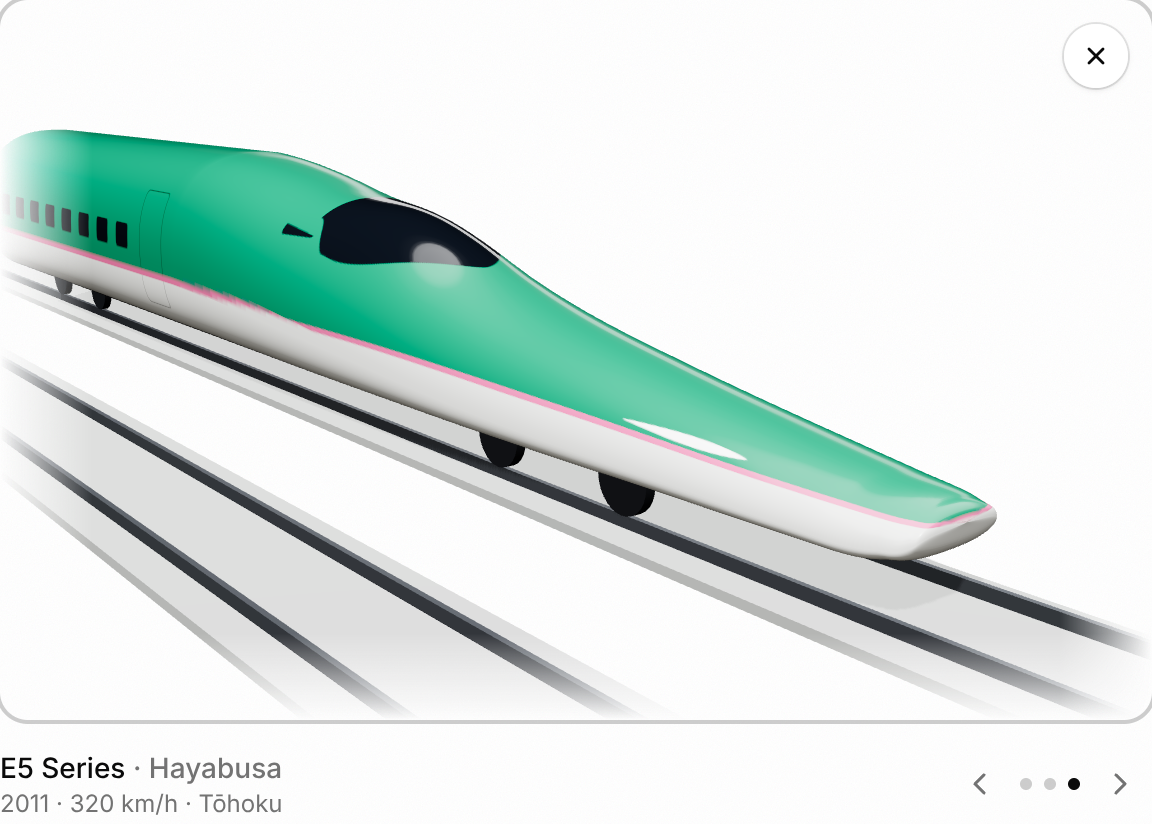
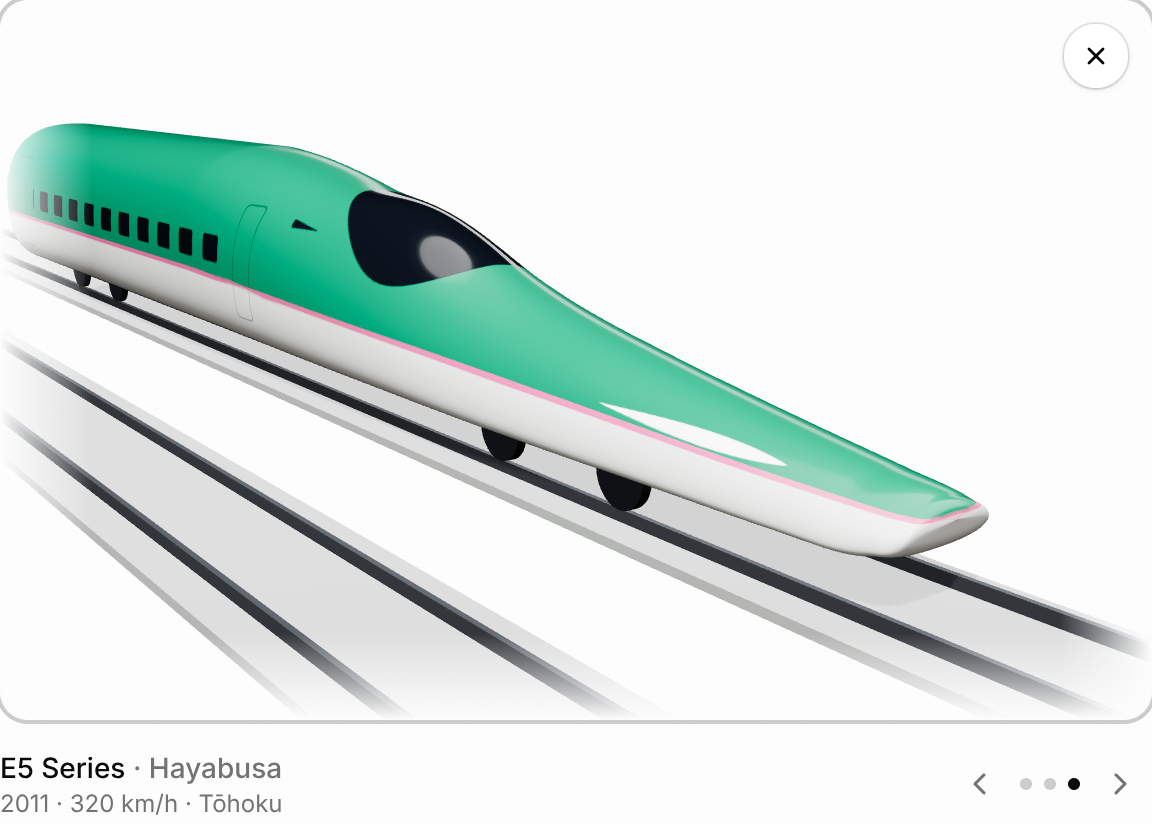
Refine Shinkansen models for accuracy
- 0 Series: smaller, higher nose-light dome so the lower blue stripe runs
  unbroken around the front under the headlight pods; wider windscreen
  pillar; drop the stray roof patch; lighter underfloor.
- N700S: teardrop LED headlights moved up onto the raised edges beside
  the windscreen; deeper valley between the two nose wings; rounded
  visor windscreen; pinstripe fades in instead of stopping short.
- E5: teardrop windscreen on the canopy, pink line sits just under the
  windows, slimmer canopy over a wider lower hull, larger headlights.
- N700S and E5: passenger door at the coupling end plus a crew door
  behind the cab.
- Space texture pixels evenly around each cross-section, so stripes on
  the flat body sides are crisp instead of fuzzy.

Claude-Session: https://claude.ai/code/session_019jCHeutRcVREskqAvSWJ6R

diff --git a/components/shinkansen/series.ts b/components/shinkansen/series.ts
@@ -90,12 +90,12 @@ const shade = (c: RGB, k: number): RGB => [c[0] * k, c[1] * k, c[2] * k]
 /* ───────────────────────────── 0 Series (1964) ───────────────────────────── */
 
 const zeroTop = spline([
-  [0, 1.42],
-  [0.04, 1.62],
-  [0.14, 1.8],
-  [0.32, 1.97],
-  [0.65, 2.16],
-  [1.1, 2.33],
+  [0, 1.5],
+  [0.04, 1.7],
+  [0.14, 1.87],
+  [0.32, 2.02],
+  [0.65, 2.19],
+  [1.1, 2.35],
   [1.7, 2.5],
   [2.25, 2.68],
   [2.8, 2.98],
@@ -118,11 +118,12 @@ const zeroHalf = spline([
   [5.5, 1.69],
 ])
 const zeroBottom = spline([
-  [0, 1.42],
-  [0.08, 1.12],
-  [0.22, 0.86],
-  [0.45, 0.62],
-  [0.8, 0.46],
+  [0, 1.5],
+  [0.06, 1.2],
+  [0.18, 0.95],
+  [0.36, 0.72],
+  [0.62, 0.52],
+  [1.0, 0.43],
   [1.6, 0.42],
   [3.6, 0.46],
   [4.3, 0.92],
@@ -172,18 +173,18 @@ const zeroSeries: Series = {
     if (sy < -0.82 && x > 1) return { color: UNDER }
     const ax = Math.abs(z)
     // Translucent nose-light cover on the tip of the bonnet.
-    if (x < 0.5 && (y - 1.42) ** 2 + z ** 2 < 0.44 ** 2) {
-      const r = Math.sqrt((y - 1.42) ** 2 + z ** 2)
-      if (r > 0.41) return { color: shade(ZERO_IVORY, 0.72) }
-      return { color: hex("#f4f1e6"), light: r < 0.3 ? hex("#3a3628") : undefined }
+    if (x < 0.45 && (y - 1.5) ** 2 + z ** 2 < 0.37 ** 2) {
+      const r = Math.sqrt((y - 1.5) ** 2 + z ** 2)
+      if (r > 0.345) return { color: shade(ZERO_IVORY, 0.72) }
+      return { color: hex("#f4f1e6"), light: r < 0.25 ? hex("#3a3628") : undefined }
     }
     // Headlight pods: blue ovals on the cheeks with twin round lamps.
     if (x < 2.2 && sy > -0.6) {
-      const pz = (ax - 0.86) / 0.5
-      const py = (y - 1.36) / 0.2
+      const pz = (ax - 0.9) / 0.46
+      const py = (y - 1.42) / 0.18
       if (pz * pz + py * py < 1) {
-        const lamp = (lz: number) => (ax - lz) ** 2 + (y - 1.36) ** 2 < 0.115 ** 2
-        if (lamp(0.66) || lamp(1.06)) return { color: hex("#fffbe8"), light: hex("#fff3c4") }
+        const lamp = (lz: number) => (ax - lz) ** 2 + (y - 1.42) ** 2 < 0.105 ** 2
+        if (lamp(0.72) || lamp(1.08)) return { color: hex("#fffbe8"), light: hex("#fff3c4") }
         return { color: ZERO_BLUE }
       }
     }
@@ -191,7 +192,7 @@ const zeroSeries: Series = {
     if (x > 2.18 && x < 3.3 && sy > 0.2) {
       const zn = ax / Math.max(0.01, zeroHalf(x))
       const yTop = 3.18
-      if (zn < 0.66 && ax > 0.045 && y < yTop && y > 2.66) return { color: GLASS, glass: true }
+      if (zn < 0.66 && ax > 0.075 && y < yTop && y > 2.66) return { color: GLASS, glass: true }
     }
     // Side cab window.
     if (Math.abs(sx) > 0.7 && inRoundRect(x, y, 3.45, 4.45, 2.58, 3.02, 0.08))
@@ -207,12 +208,11 @@ const zeroSeries: Series = {
       return { color: ZERO_BLUE }
     }
     // Skirt stripe wrapping under the headlight pods.
-    if (y > 1.0 && y < 1.13 && sy > -0.75) return { color: ZERO_BLUE }
+    if (y > 0.99 && y < 1.11 && (sy > -0.75 || x < 1.2)) return { color: ZERO_BLUE }
     if (Math.abs(sx) > 0.7) {
       if (doorSeam(x, y, 6.2, 6.9, 1.2, 2.95) || doorSeam(x, y, 23.75, 24.45, 1.2, 2.95))
         return { color: shade(ZERO_IVORY, 0.62) }
     }
-    if (sy > 0.9 && x > 5) return { color: shade(ZERO_IVORY, 0.9) }
     return { color: ZERO_IVORY }
   },
 }
@@ -292,16 +292,16 @@ const n700s: Series = {
     tuck: (x) => 0.13 * smoothstep(1, 6, x),
     waist: (x) => 0.36 + 0.06 * smoothstep(3, 10, x),
     // "Dual Supreme Wing": a valley between the two headlight wings.
-    groove: (x) => 0.13 * bump(x, 2.4, 1.6) * smoothstep(0.1, 0.9, x),
+    groove: (x) => 0.17 * bump(x, 2.7, 1.9) * smoothstep(0.1, 0.9, x),
   },
   paint: ({ x, y, z, sx, sy, sec }) => {
     if (sy < -0.85 && x > 1) return { color: UNDER }
     const ax = Math.abs(z)
     const zn = ax / Math.max(0.01, sec.half)
     // Visor windscreen: teardrop in plan, pointed toward the nose.
-    if (x > 6.5 && x < 9.2 && sy > 0.3) {
-      const t = (x - 6.5) / 2.7
-      const w = 0.64 * Math.pow(Math.sin(Math.min(1, t * 1.25) * Math.PI * 0.5), 0.75) * (1 - 0.25 * smoothstep(0.85, 1, t))
+    if (x > 6.4 && x < 9.6 && sy > 0.3) {
+      const t = (x - 6.4) / 3.2
+      const w = 0.58 * Math.pow(Math.sin(Math.PI * Math.pow(t, 0.7)), 0.5)
       if (zn < w) return { color: GLASS, glass: true }
     }
     // Side cab window.
@@ -309,12 +309,16 @@ const n700s: Series = {
       if (inRoundRect(x, y, 8.9, 10.0, 2.5, 2.92 - (10 - x) * 0.12, 0.08)) return { color: GLASS, glass: true }
     }
     // Headlights: sharp slanted teardrops on the outside of each wing.
-    if (x > 0.7 && x < 3.1 && zn > 0.42 && sy > -0.2) {
-      const t = (x - 0.7) / 2.4
-      const cy = sec.waistY + (sec.top - sec.waistY) * (0.25 + 0.15 * t)
-      const hh = 0.075 * Math.sin(Math.PI * Math.pow(t, 0.6))
-      if (Math.abs(y - cy) < hh) return { color: hex("#f7f8fb"), light: hex("#ffffff") }
-      if (Math.abs(y - cy) < hh + 0.025) return { color: hex("#3b4048") }
+    // Headlights: sharp teardrops set into the raised edges either side of
+    // the windscreen, pointing back and up toward it.
+    if (x > 1.7 && x < 4.7 && sy > 0.25) {
+      // Placed by position across the nose: the crown here is nearly flat,
+      // so a height band would shrink to a sliver.
+      const t = (x - 1.7) / 3.0
+      const c = 0.8 - 0.14 * t
+      const hw = 0.11 * Math.sin(Math.PI * Math.pow(t, 0.55))
+      if (Math.abs(zn - c) < hw) return { color: hex("#f7f8fb"), light: hex("#ffffff") }
+      if (Math.abs(zn - c) < hw + 0.025) return { color: hex("#3b4048") }
     }
     // Blue belt under the windows, flicking down the nose to the lamps.
     if (x > 2.4) {
@@ -322,10 +326,14 @@ const n700s: Series = {
       const hw = x > 10.5 ? 0.18 : nBandHalf(x)
       if (Math.abs(y - mid) < hw && sy > -0.6) return { color: N_BLUE }
     }
-    if (x > 7.5 && y > 1.27 && y < 1.33 && Math.abs(sx) > 0.8) return { color: N_BLUE }
+    // Thin pinstripe under the belt, fading in behind the cab.
+    const pin = 0.032 * smoothstep(6.5, 9.5, x)
+    if (pin > 0.004 && Math.abs(y - 1.3) < pin && sy > -0.6) return { color: N_BLUE }
     if (Math.abs(sx) > 0.75) {
-      if (windowRow(x, y, 12.95, 26.6, 1.04, 0.62, 1.94, 2.44, 0.07)) return { color: GLASS, glass: true }
-      if (doorSeam(x, y, 11.3, 12.3, 0.95, 2.95)) return { color: shade(N_WHITE, 0.6) }
+      if (windowRow(x, y, 11.85, 25.0, 1.04, 0.62, 1.94, 2.44, 0.07)) return { color: GLASS, glass: true }
+      // Crew door behind the cab, passenger door at the coupling end.
+      if (doorSeam(x, y, 10.45, 11.05, 1.05, 2.85)) return { color: shade(N_WHITE, 0.6) }
+      if (doorSeam(x, y, 25.6, 26.6, 0.95, 2.95)) return { color: shade(N_WHITE, 0.6) }
     }
     return { color: N_WHITE }
   },
@@ -378,9 +386,9 @@ const eLine = spline([
   [0.15, 0.94],
   [2, 1.04],
   [5, 1.22],
-  [8.5, 1.38],
-  [12, 1.44],
-  [15, 1.5],
+  [8.5, 1.42],
+  [12, 1.58],
+  [15, 1.66],
 ])
 
 const e5: Series = {
@@ -398,10 +406,10 @@ const e5: Series = {
     top: eTop,
     bottom: eBottom,
     halfWidth: eHalf,
-    upperShape: (x) => 2.15 + 0.3 * smoothstep(8, 15, x),
+    upperShape: (x) => 1.9 + 0.55 * smoothstep(7, 15, x),
     lowerShape: (x) => 2.4 + 1.6 * smoothstep(1, 12, x),
     tuck: (x) => 0.12 * smoothstep(3, 13, x),
-    waist: (x) => 0.3 + 0.12 * smoothstep(4, 15, x),
+    waist: (x) => 0.26 + 0.16 * smoothstep(4, 15, x),
     // The cab canopy is a blister that stands proud of the nose line.
     groove: (x) => -0.2 * bump(x, 9.7, 1.5),
   },
@@ -410,31 +418,34 @@ const e5: Series = {
     const ax = Math.abs(z)
     const zn = ax / Math.max(0.01, sec.half)
     // Wraparound windscreen on the canopy blister.
-    if (x > 8.0 && x < 11.1 && sy > 0.2) {
-      const t = (x - 8.0) / 3.1
-      const w = 0.8 * Math.pow(Math.sin(Math.min(1, t * 1.35) * Math.PI * 0.5), 0.6) * (1 - 0.3 * smoothstep(0.8, 1, t))
+    if (x > 7.9 && x < 11.3 && sy > 0.2) {
+      // Teardrop in plan: pointed toward the nose, rounded at the back.
+      const t = (x - 7.9) / 3.4
+      const w = 0.8 * Math.pow(Math.sin(Math.PI * Math.pow(t, 0.75)), 0.55)
       if (zn < w) return { color: GLASS, glass: true }
     }
     if (Math.abs(sx) > 0.72 && sy > 0.1 && inRoundRect(x, y, 10.9, 11.7, 2.62, 2.95, 0.07))
       return { color: GLASS, glass: true }
-    const line = x > 15 ? 1.5 : eLine(x)
+    const line = x > 15 ? 1.66 : eLine(x)
     // Headlights: slim slanted slits just above the parting line.
-    if (x > 2.2 && x < 4.0 && zn > 0.55 && sy > -0.3) {
-      const t = (x - 2.2) / 1.8
-      const c = line + 0.07
-      const hh = 0.04 * Math.sin(Math.PI * Math.pow(t, 0.8))
+    if (x > 1.7 && x < 4.4 && zn > 0.5 && sy > -0.3) {
+      const t = (x - 1.7) / 2.7
+      const c = line + 0.08
+      const hh = 0.06 * Math.sin(Math.PI * Math.pow(t, 0.8))
       if (Math.abs(y - c) < hh) return { color: hex("#f7f8fb"), light: hex("#ffffff") }
     }
     if (y > line) {
       if (Math.abs(sx) > 0.75) {
-        if (windowRow(x, y, 17.2, 26.2, 1.04, 0.6, 1.86, 2.31, 0.07)) return { color: GLASS, glass: true }
-        if (doorSeam(x, y, 15.6, 16.6, 0.95, 2.95)) return { color: shade(E_GREEN, 0.6) }
+        if (windowRow(x, y, 13.7, 24.2, 1.04, 0.6, 1.86, 2.31, 0.07)) return { color: GLASS, glass: true }
+        if (doorSeam(x, y, 12.55, 13.1, 1.05, 2.85)) return { color: shade(E_GREEN, 0.6) }
+        if (doorSeam(x, y, 24.75, 25.75, 0.95, 2.95)) return { color: shade(E_GREEN, 0.6) }
       }
       return { color: E_GREEN }
     }
     const pinkW = x > 6 ? 0.075 : 0.035 + 0.04 * (x / 6)
     if (y > line - pinkW) return { color: E_PINK }
-    if (Math.abs(sx) > 0.75 && doorSeam(x, y, 15.6, 16.6, 0.95, 2.95)) return { color: shade(E_WHITE, 0.62) }
+    if (Math.abs(sx) > 0.75 && (doorSeam(x, y, 12.55, 13.1, 1.05, 2.85) || doorSeam(x, y, 24.75, 25.75, 0.95, 2.95)))
+      return { color: shade(E_WHITE, 0.62) }
     return { color: E_WHITE }
   },
 }

diff --git a/components/shinkansen/livery-texture.ts b/components/shinkansen/livery-texture.ts
@@ -1,5 +1,5 @@
 import * as THREE from "three"
-import { pointAt, ringAngle, sectionAt, uToX } from "./body-geometry"
+import { arcMap, pointAt, sectionAt, uToX, type Section } from "./body-geometry"
 import type { Paint, Series } from "./series"
 
 export const TEX_W = 2048
@@ -30,8 +30,8 @@ export async function paintLivery(
   const light = new Uint8Array(TEX_W * TEX_H * 4)
   const tmp = { r: 0, g: 0, b: 0, rough: 0, lr: 0, lg: 0, lb: 0 }
 
-  const sample = (u: number, v: number, sec = sectionAt(profile, uToX(profile, u))) => {
-    const p = pointAt(sec, ringAngle(v))
+  const sample = (v: number, sec: Section, toAngle: (v: number) => number) => {
+    const p = pointAt(sec, toAngle(v))
     return series.paint({ x: sec.x, y: p.y, z: p.z, sx: p.sx, sy: p.sy, sec })
   }
   const accumulate = (out: Paint, w: number) => {
@@ -71,11 +71,14 @@ export async function paintLivery(
   }
 
   // Pass 1: one sample per texel.
+  const columnAngles: ((v: number) => number)[] = []
   for (let i = 0; i < TEX_W; i++) {
     await breathe()
     const sec = sectionAt(profile, uToX(profile, (i + 0.5) / TEX_W))
+    const toAngle = arcMap(sec)
+    columnAngles.push(toAngle)
     for (let j = 0; j < TEX_H; j++) {
-      accumulate(sample(0, (j + 0.5) / TEX_H, sec), 1)
+      accumulate(sample((j + 0.5) / TEX_H, sec, toAngle), 1)
       write((j * TEX_W + i) * 4)
     }
   }
@@ -100,15 +103,17 @@ export async function paintLivery(
   const w = 1 / (N * N)
   for (let i = 0; i < TEX_W; i++) {
     await breathe()
-    let secs: ReturnType<typeof sectionAt>[] | null = null
+    let secs: Section[] | null = null
     for (let j = 0; j < TEX_H; j++) {
       if (!edge[j * TEX_W + i]) continue
+      // Sub-samples are a fraction of a texel apart, so they share the
+      // column's spacing around the outline.
       secs ??= Array.from({ length: N }, (_, a) =>
         sectionAt(profile, uToX(profile, (i + (a + 0.5) / N) / TEX_W)),
       )
       for (let a = 0; a < N; a++) {
         for (let b = 0; b < N; b++) {
-          accumulate(sample(0, (j + (b + 0.5) / N) / TEX_H, secs[a]), w)
+          accumulate(sample((j + (b + 0.5) / N) / TEX_H, secs[a], columnAngles[i]), w)
         }
       }
       write((j * TEX_W + i) * 4)

diff --git a/components/shinkansen/body-geometry.ts b/components/shinkansen/body-geometry.ts
@@ -162,6 +162,38 @@ export function pointAt(sec: Section, a: number): SurfacePoint {
   return { y, z, sx, sy }
 }
 
+const ARC_SAMPLES = 256
+
+/**
+ * Maps a 0..1 ring parameter to a section angle so that equal steps cover
+ * equal distance around the outline. Plain superellipse angles bunch points
+ * into the corners and starve the flat sides, where the stripes run.
+ */
+export function arcMap(sec: Section): (v: number) => number {
+  const len = new Float64Array(ARC_SAMPLES + 1)
+  let prev = pointAt(sec, ringAngle(0))
+  for (let k = 1; k <= ARC_SAMPLES; k++) {
+    const p = pointAt(sec, ringAngle(k / ARC_SAMPLES))
+    len[k] = len[k - 1] + Math.hypot(p.y - prev.y, p.z - prev.z)
+    prev = p
+  }
+  const total = len[ARC_SAMPLES]
+  if (total < 1e-6) return ringAngle
+  return (v) => {
+    const target = (v - Math.floor(v)) * total
+    let lo = 0
+    let hi = ARC_SAMPLES
+    while (hi - lo > 1) {
+      const mid = (lo + hi) >> 1
+      if (len[mid] <= target) lo = mid
+      else hi = mid
+    }
+    const span = len[hi] - len[lo]
+    const f = span > 0 ? (target - len[lo]) / span : 0
+    return ringAngle((lo + f) / ARC_SAMPLES)
+  }
+}
+
 /** Texture u packs the nose into more texels than the plain body. */
 export const NOSE_SHARE = 0.46
 
@@ -205,8 +237,9 @@ export function buildBodyGeometry(profile: BodyProfile) {
   for (const x of xs) {
     const sec = sectionAt(profile, x)
     const u = xToU(profile, x)
+    const toAngle = arcMap(sec)
     for (let j = 0; j <= RING; j++) {
-      const p = pointAt(sec, ringAngle(j / RING))
+      const p = pointAt(sec, j === RING ? toAngle(0) : toAngle(j / RING))
       positions.push(x, p.y, p.z)
       uvs.push(u, j / RING)
     }

diff --git a/components/shinkansen/train-car.tsx b/components/shinkansen/train-car.tsx
@@ -14,7 +14,7 @@ const wheelGeometry = new THREE.CylinderGeometry(WHEEL_R, WHEEL_R, 0.14, 28)
 wheelGeometry.rotateX(Math.PI / 2)
 const darkMetal = new THREE.MeshStandardMaterial({ color: "#2b2e33", roughness: 0.55, metalness: 0.6 })
 const wheelMetal = new THREE.MeshStandardMaterial({ color: "#5b5f66", roughness: 0.35, metalness: 0.85 })
-const underMat = new THREE.MeshStandardMaterial({ color: "#1d1f22", roughness: 0.8 })
+const underMat = new THREE.MeshStandardMaterial({ color: "#34373c", roughness: 0.8 })
 
 function Bogie({ x, exposed }: { x: number; exposed: boolean }) {
   return (

diff --git a/components/shinkansen/shinkansen-showcase.tsx b/components/shinkansen/shinkansen-showcase.tsx
@@ -17,7 +17,7 @@ const laneX = (i: number) => (i - (SERIES.length - 1) / 2) * TRACK_SPACING
 
 const OVERVIEW = {
   position: new THREE.Vector3(-9.6, 4.4, 15.2),
-  target: new THREE.Vector3(1.4, 2.1, -5.5),
+  target: new THREE.Vector3(1.4, 1.55, -5.5),
 }
 
 const damp = THREE.MathUtils.damp
